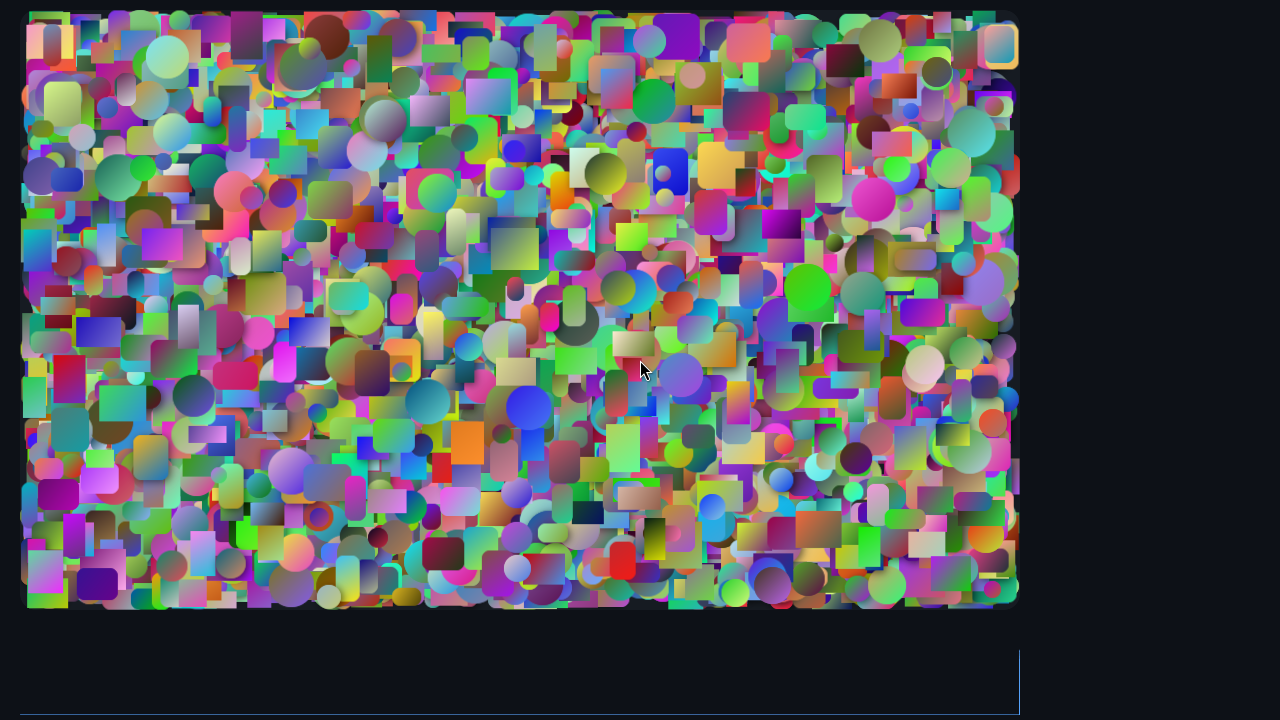
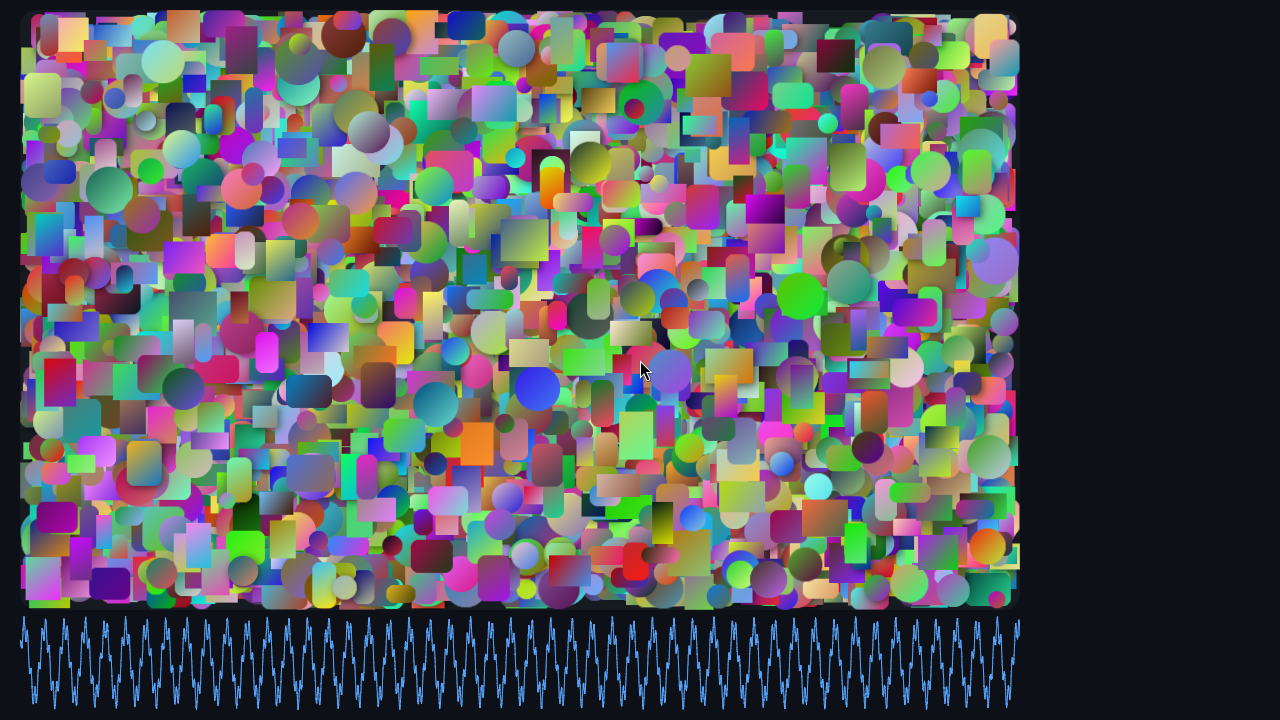
WIP passe 2 : point d'étape (non final)
Claude-Session: https://claude.ai/code/session_01HkHNQj7J4SQqsr89FX7Vve

diff --git a/stacks/flutter/app/lib/scene.dart b/stacks/flutter/app/lib/scene.dart
@@ -100,6 +100,12 @@ class Scene extends ChangeNotifier {
       hasShadow[i] = (shadows && i % 10 == 0) ? 1 : 0;
       xforms[4 * i] = 1.0; // scos (scale 1, no rotation); ssin stays 0
     }
+    if (graph) {
+      // history pre-filled so that the polyline has its 10 000 real points from the first frame
+      for (var p = 0; p < graphPoints - 1; p++) {
+        _pushSample();
+      }
+    }
     if (!canvasDirect) _buildAtlas();
   }
 
@@ -168,6 +174,14 @@ class Scene extends ChangeNotifier {
     atlasBuildMs = sw0.elapsedMicroseconds / 1000.0;
   }
 
+  /// Appends the next sample (deterministic signal) to the 10 000-point ring.
+  void _pushSample() {
+    k++;
+    final v = 50.0 + 35.0 * m.sin(k * 0.031) + 10.0 * m.sin(k * 0.173) + (fnv(k) % 100) / 25.0;
+    ring[head] = v;
+    head = (head + 1) % graphPoints;
+  }
+
   void tick(double nowSec) {
     final dt = lastT == 0 ? 0.0 : (nowSec - lastT).clamp(0.0, 0.1);
     lastT = nowSec;
@@ -192,10 +206,7 @@ class Scene extends ChangeNotifier {
       y[i] = py;
     }
     if (graph) {
-      k++;
-      final v = 50.0 + 35.0 * m.sin(k * 0.031) + 10.0 * m.sin(k * 0.173) + (fnv(k) % 100) / 25.0;
-      ring[head] = v;
-      head = (head + 1) % graphPoints;
+      _pushSample();
       final step = gw / (graphPoints - 1);
       var j = 0;
       for (var p = 0; p < graphPoints; p++) {
